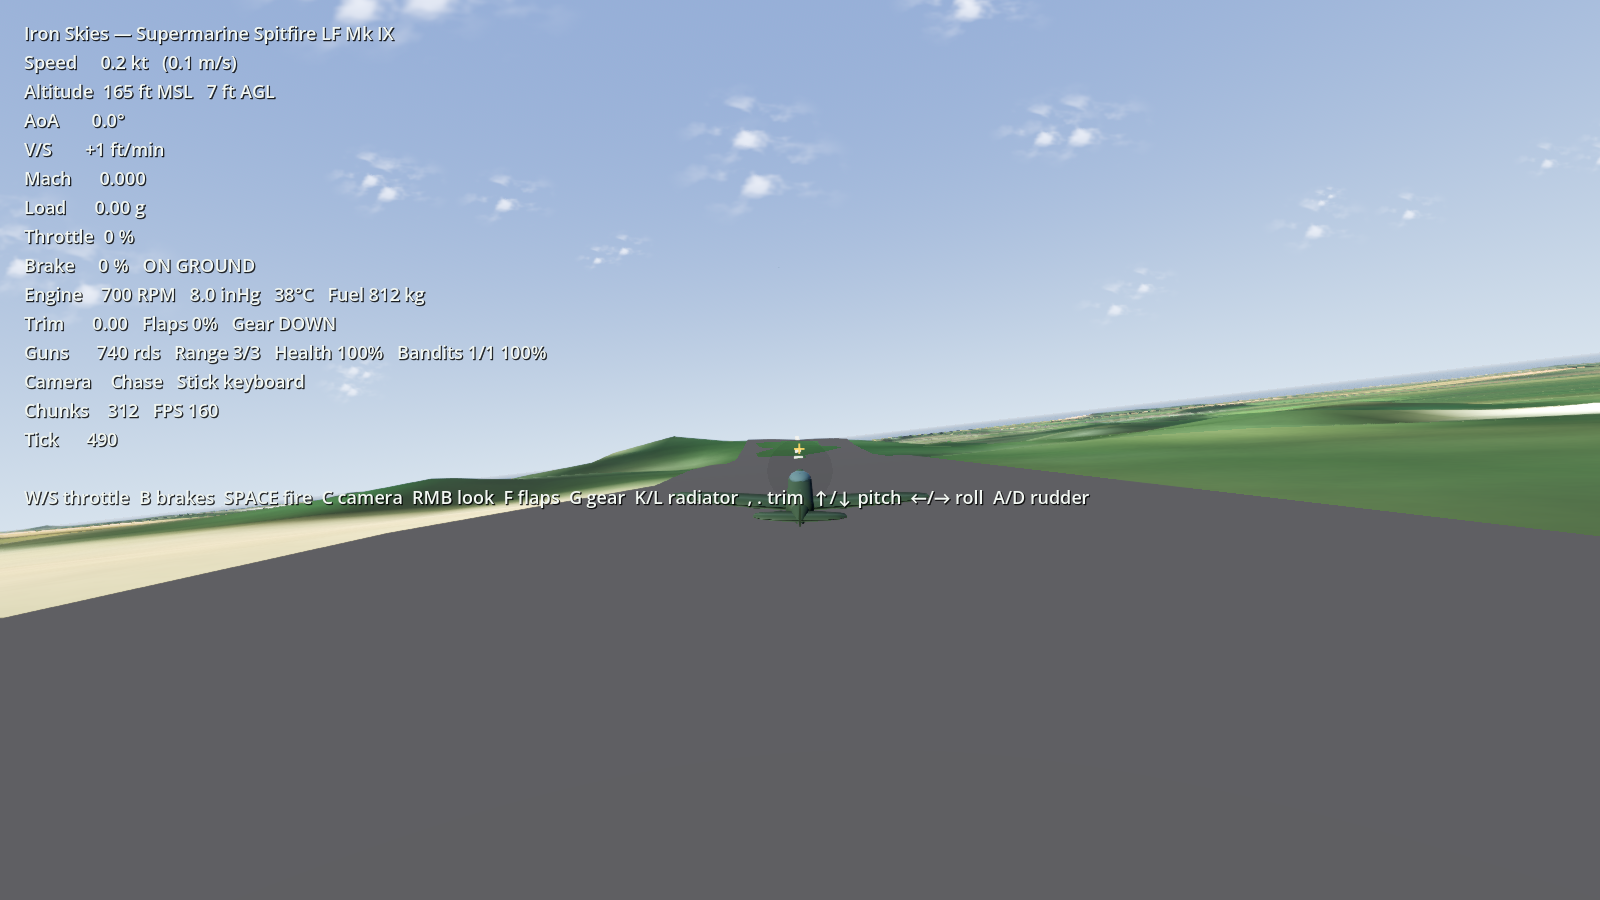
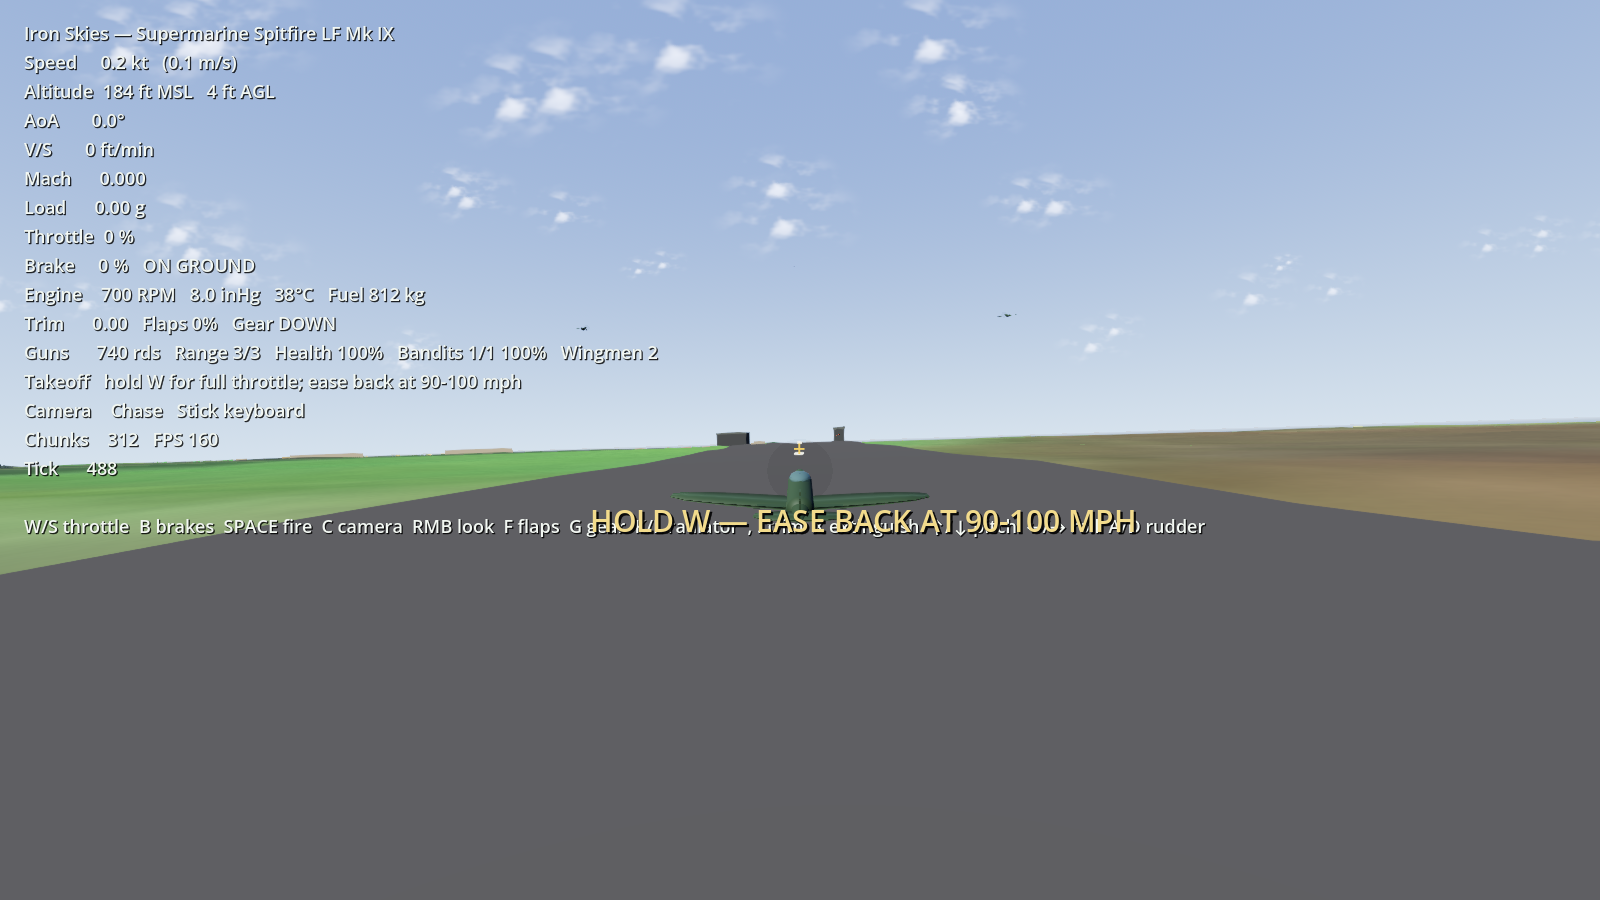
airfield: fix takeoff by moving the strip off the terrain ridge
- the old 1 km runway spanned a 5 m ridge at north ~6550; the aircraft was
  stopped by the resulting bump at ~6500 regardless of rotation
- moved the home airfield to the smooth 1.2 km section at north 5900
- tapered the raised-strip shoulders so leaving the edge is a ramp, not a 1 m step
- clear OSM buildings/trees from the runway + 550 m approach corridor
- large takeoff prompt; --takeoff-test (832 m success on the real airfield)
- takeoff test added to CI; screenshots/docs updated

diff --git a/game/scripts/Main.cs b/game/scripts/Main.cs
@@ -100,6 +100,7 @@ public partial class Main : Node3D
     private bool _duel;
     private bool _missionTest;
     private bool _damageTest;
+    private bool _takeoffTest;
     private int _missionTestTick;
     private double _accumulator;
 
@@ -176,6 +177,7 @@ public partial class Main : Node3D
         _airStart = HasUserFlag("--air-start");
         _missionTest = HasUserFlag("--mission-test") || HasUserFlag("--hunt-test");
         _damageTest = HasUserFlag("--damage-test");
+        _takeoffTest = HasUserFlag("--takeoff-test");
 
         if (HasUserFlag("--strike") || LaunchConfig.Mission == "strike")
         {
@@ -241,6 +243,20 @@ public partial class Main : Node3D
                 ? System.Math.Clamp(wingmen, 0, 3)
                 : _duel ? 0 : 2;
         }
+
+        if (_takeoffTest)
+        {
+            _missionKind = MissionKind.None;
+            _strikeStart = false;
+            _huntStart = false;
+            _bomberStart = false;
+            _missionTest = false;
+            _airStart = false;
+            _duel = false;
+            _banditCount = 0;
+            _wingmanCount = 0;
+        }
+
         string? cameraOption = ReadUserOption("--camera");
         if (cameraOption == "cockpit")
         {
@@ -315,6 +331,21 @@ public partial class Main : Node3D
             TrimElevator: _trimElevator,
             Fire: _fire,
             Extinguish: FlightInput.Pressed(FlightAction.Extinguish));
+
+        if (_takeoffTest)
+        {
+            Vec3 forward = _sim.State.Orientation.Rotate(Vec3.UnitX);
+            double heading = System.Math.Atan2(forward.X, forward.Y);
+            double rudder = System.Math.Clamp(
+                -heading * 0.8 - _sim.State.AngularVelocityBody.Z * 0.3, -0.6, 0.6);
+            playerControls = new Controls(
+                Elevator: _sim.Telemetry.SpeedMs > 45.0 ? 0.10 : 0.0,
+                Rudder: rudder,
+                Throttle: 1.0,
+                GearDown: 1.0,
+                Radiator: 0.5,
+                Mixture: 0.9);
+        }
 
         _accumulator += delta;
         int steps = 0;
@@ -465,6 +496,38 @@ public partial class Main : Node3D
         _terrain.SetFocus(_aircraft.GlobalPosition);
         UpdateCamera(delta);
 
+        if (_takeoffTest)
+        {
+            double agl = _sim.State.Position.Z
+                - _ground.HeightAt(_sim.State.Position.X, _sim.State.Position.Y);
+            int seconds = _tick / 240;
+            if (_tick % 240 == 0)
+            {
+                GD.Print($"[takeoff] t={seconds}s speed={_sim.Telemetry.SpeedMs:F1} " +
+                         $"east={_sim.State.Position.X:F0} north={_sim.State.Position.Y:F0} " +
+                         $"agl={agl:F1} health={_sim.Health:F0} " +
+                         $"ground={_sim.Telemetry.OnGround}");
+            }
+
+            if (!_sim.Telemetry.OnGround && agl > 15.0)
+            {
+                GD.Print($"[takeoff] success at {_sim.State.Position.Y - (Airfield.SouthThreshold + 120.0):F0} m " +
+                         $"({seconds}s, {_sim.Telemetry.SpeedMs:F1} m/s)");
+                GetTree().Quit();
+            }
+            else if (_sim.Telemetry.OnGround
+                && _sim.State.Position.Y > Airfield.SouthThreshold + Airfield.LengthMeters + 150.0)
+            {
+                GD.Print("[takeoff] fail: overran the runway");
+                GetTree().Quit();
+            }
+            else if (seconds > 45)
+            {
+                GD.Print("[takeoff] fail: still on the ground after 45 s");
+                GetTree().Quit();
+            }
+        }
+
         if (_sim.Destroyed && !_playerDown)
         {
             _playerDown = true;
@@ -514,7 +577,9 @@ public partial class Main : Node3D
         bool allBanditsDown = EnemiesDown() == _enemies.Count && _enemies.Count > 0;
         bool allBombersDown = _bombers.Count > 0 && BombersDown() == _bombers.Count;
         bool missionOver = _mission is { Active: false };
-        _message.Visible = _playerDown || allBanditsDown || allBombersDown || missionOver;
+        bool takeoffPrompt = !_replaying && _sim.Telemetry.OnGround && _tick > 30;
+        _message.Visible = _playerDown || allBanditsDown || allBombersDown || missionOver
+            || takeoffPrompt;
         if (_mission is { Failed: true })
         {
             _message.Text = "MISSION FAILED — R TO RETRY";
@@ -524,6 +589,11 @@ public partial class Main : Node3D
         {
             _message.Text = $"MISSION COMPLETE  {_mission.ElapsedText()} — R TO FLY AGAIN";
             _message.AddThemeColorOverride("font_color", new Color(0.55f, 1.0f, 0.55f));
+        }
+        else if (!_replaying && _sim.Telemetry.OnGround && _tick > 30)
+        {
+            _message.Text = "HOLD W — EASE BACK AT 90-100 MPH";
+            _message.AddThemeColorOverride("font_color", new Color(0.95f, 0.86f, 0.55f));
         }
         else if (_playerDown)
         {
@@ -767,6 +837,11 @@ public partial class Main : Node3D
             if (damage.AileronJammed) _hudText.Append("AILERON JAM   ");
             if (damage.ElevatorJammed) _hudText.Append("ELEVATOR JAM");
             _hudText.Append('\n');
+        }
+
+        if (_sim.Telemetry.OnGround && _sim.Telemetry.SpeedMs < 35.0 && !_replaying)
+        {
+            _hudText.Append("Takeoff   hold W for full throttle; ease back at 90-100 mph\n");
         }
 
         _hudText.Append("Camera    ").Append(_cameraMode)
@@ -1096,7 +1171,7 @@ public partial class Main : Node3D
         }
 
         double east = _strikeStart ? 900.0 : Airfield.East;
-        double north = _strikeStart ? 7000.0 : Airfield.SouthThreshold + 100.0;
+        double north = _strikeStart ? 7000.0 : Airfield.SouthThreshold + 120.0;
         double ground = _ground.HeightAt(east, north);
         bool airborne = _airStart || _strikeStart || _huntStart || _bomberStart || _duel;
         AircraftState state = airborne

diff --git a/game/scripts/World/Airfield.cs b/game/scripts/World/Airfield.cs
@@ -11,13 +11,26 @@ namespace IronSkies.Game.World;
 public sealed partial class Airfield : Node3D
 {
     public const double East = 700.0;
-    public const double North = 6750.0;
-    public const double LengthMeters = 1000.0;
-    public const double WidthMeters = 36.0;
+    public const double North = 5900.0;
+    public const double LengthMeters = 1200.0;
+    public const double WidthMeters = 44.0;
+    public const double ClearCorridorHalfWidth = 130.0;
+    public const double ClearCorridorEnds = 550.0;
     public const double SouthThreshold = North - LengthMeters * 0.5;
 
     public const double GroundOffset = 1.0;
     private const float SurfaceLift = (float)GroundOffset;
+
+    /// <summary>True inside the runway plus its approach/departure corridor. OSM
+    /// buildings and trees are filtered out here so the strip stays usable.</summary>
+    public static bool IsInClearZone(double east, double north, double margin = 0.0)
+    {
+        double halfWidth = WidthMeters * 0.5 + ClearCorridorHalfWidth + margin;
+        double south = SouthThreshold - ClearCorridorEnds - margin;
+        double northLimit = SouthThreshold + LengthMeters + ClearCorridorEnds + margin;
+        return System.Math.Abs(east - East) <= halfWidth
+            && north >= south && north <= northLimit;
+    }
 
     public void Build(Heightmap map)
     {

diff --git a/game/scripts/World/AirfieldSurface.cs b/game/scripts/World/AirfieldSurface.cs
@@ -16,17 +16,24 @@ public sealed class AirfieldSurface : IGroundSurface
         _terrain = terrain;
     }
 
+    private const double ShoulderMeters = 22.0;
+
     public double HeightAt(double eastMeters, double northMeters)
     {
         double height = _terrain.HeightAt(eastMeters, northMeters);
         double halfWidth = Airfield.WidthMeters * 0.5;
-        if (System.Math.Abs(eastMeters - Airfield.East) <= halfWidth
-            && northMeters >= Airfield.SouthThreshold
-            && northMeters <= Airfield.SouthThreshold + Airfield.LengthMeters)
-        {
-            return height + Airfield.GroundOffset;
-        }
+        double south = Airfield.SouthThreshold;
+        double north = south + Airfield.LengthMeters;
 
-        return height;
+        double lateral = System.Math.Abs(eastMeters - Airfield.East);
+        double longitudinal = northMeters < south
+            ? south - northMeters
+            : northMeters > north ? northMeters - north : 0.0;
+        double lateralBlend = 1.0 - System.Math.Clamp(
+            (lateral - halfWidth) / ShoulderMeters, 0.0, 1.0);
+        double longitudinalBlend = 1.0 - System.Math.Clamp(
+            longitudinal / ShoulderMeters, 0.0, 1.0);
+        double blend = System.Math.Min(lateralBlend, longitudinalBlend);
+        return height + Airfield.GroundOffset * blend;
     }
 }

diff --git a/tests/IronSkies.FlightModel.Tests/GroundHandlingTests.cs b/tests/IronSkies.FlightModel.Tests/GroundHandlingTests.cs
@@ -78,17 +78,24 @@ public class GroundHandlingTests
         var sim = new AircraftSimulator(
             d, AircraftState.CreateOnGround(d, 0.0), FlatGround.Instance);
 
+        double liftoffNorth = 0.0;
         for (int i = 0; i < 40 * 240; i++)
         {
             double time = i * Dt;
             double elevator = time > 11.0 ? 0.55 : 0.0;
             sim.Step(new Controls(Elevator: elevator, Throttle: 1.0), Dt);
+            if (!sim.Telemetry.OnGround && liftoffNorth == 0.0)
+            {
+                liftoffNorth = sim.State.Position.Y;
+            }
         }
 
         Assert.True(sim.State.IsFinite);
         Assert.False(sim.Telemetry.OnGround);
         Assert.True(sim.State.Position.Z > 5.0);
         Assert.True(sim.State.VelocityEnu.Length > 35.0);
+        Assert.InRange(liftoffNorth, 0.0, 1500.0);
+        Assert.True(liftoffNorth < 700.0, $"liftoff at {liftoffNorth:F0} m");
     }
 
     [Fact]

diff --git a/game/scripts/Launcher.cs b/game/scripts/Launcher.cs
@@ -59,7 +59,8 @@ public sealed partial class Launcher : Control
                 || HasFlag("--hunt") || HasFlag("--bombers") || HasFlag("--duel")
                 || HasFlag("--autofire") || HasFlag("--mission-test")
                 || HasFlag("--hunt-test") || HasFlag("--bomber-test")
-                || HasFlag("--damage-test") || ReadOption("--aircraft") is not null
+                || HasFlag("--damage-test") || HasFlag("--takeoff-test")
+                || ReadOption("--aircraft") is not null
                 || ReadOption("--record") is not null
                 || ReadOption("--replay") is not null))
         {

diff --git a/game/scripts/World/OsmDetail.cs b/game/scripts/World/OsmDetail.cs
@@ -227,7 +227,8 @@ public sealed partial class OsmDetail : Node3D
                 {
                     double jitterE = east + random.RandfRange(-4.0f, 4.0f);
                     double jitterN = north + random.RandfRange(-4.0f, 4.0f);
-                    if (!PointInPolygon(jitterE, jitterN, polygon))
+                    if (Airfield.IsInClearZone(jitterE, jitterN)
+                        || !PointInPolygon(jitterE, jitterN, polygon))
                     {
                         continue;
                     }

diff --git a/docs/missions.md b/docs/missions.md
@@ -47,9 +47,10 @@ state and is unit-tested. The game wires target health and touchdown detection i
 so mission rules stay independent of rendering and networking. Objectives are currently
 built in code; a JSON mission format and a selector are the next step.
 
-The home airfield is at east 700 / north 6750 (the free-flight spawn is the south
-threshold). It is a draped 1000 × 36 m strip with a raised 1 m platform, markings, a
-hangar, a control tower and a windsock.
+The home airfield is at east 700 / north 5900 (the free-flight spawn is the south
+threshold). It is a draped 1200 × 44 m strip on the smooth section south of the terrain
+ridge, with a raised 1 m platform, tapered shoulders, markings, a hangar, a control tower
+and a windsock.
 
 `--mission-test`, `--hunt-test` and `--bomber-test` run the sorties headless, destroy the objectives
 and land the aircraft programmatically. CI uses both to verify the completion paths

diff --git a/README.md b/README.md
@@ -145,6 +145,13 @@ The demo starts on its gear beside a Normandy hedgerow. Throttle up, keep straig
 rudder, and ease back at ~100 mph to unstick. Bandits patrol about 1.5 km north (`--bandits 0-6`); both
 aircraft have 1,000 structural points.
 
+## First takeoff
+
+Free flight starts on the 1.2 km runway. Hold **W** until the throttle reaches 100%,
+keep straight with **A/D**, and ease back at **90–100 mph**; the aircraft will lift off
+well before the end of the strip. A large prompt stays on screen while you are on the
+ground.
+
 ## Quick start (developers)
 
 Prerequisites: .NET SDK 10+, Python 3.11+, Git. Godot 4.7 (.NET build) is needed only

diff --git a/docs/retro/m0.md b/docs/retro/m0.md
@@ -10,7 +10,7 @@
   stall and landing. Bf 109 G-6 data set used by the AI.
 - **World:** 40 × 40 km Normandy from Copernicus DEM, Sentinel-2 orthophoto and
   landcover, OSM roads/hedges plus a 2 km woods/buildings patch, procedural cloudscape,
-  animated sea, marked 1 km airfield with hangar, tower and windsock.
+  animated sea, marked 1.2 km airfield with hangar, tower and windsock.
 - **Combat:** four guns with ballistic projectiles, 0–6 AI bandits and 0–3 AI wingmen,
   hit-zone battle
   damage (engine, wings, fuel), engine seizure, fires/burn damage, extinguishing,

diff --git a/docs/ROADMAP.md b/docs/ROADMAP.md
@@ -69,7 +69,7 @@ sortie with engine management; deterministic replays reproduce exactly.
 - [x] Animated water normals + fresnel on the sea
 - [ ] Detail normals and 3D vegetation
 - Splat-blended ground, forests via MultiMesh, water, roads
-- [x] Airfield: marked 1 km strip, hangar, tower, windsock
+- [x] Airfield: marked 1.2 km strip, hangar, tower, windsock
 - [ ] Revetments and static props
 - [x] Procedural cumulus cloud layer
 - [ ] Physical sky, sun/moon, SDFGI, volumetric fog, weather presets
